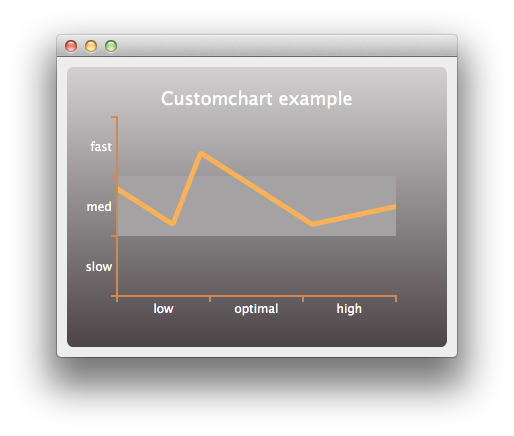
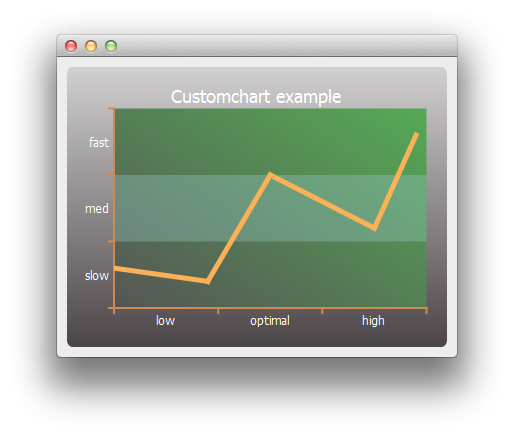
Added plot area background customization to customchart example

Changed region(s): [[0.1556, 0.2087, 0.8405, 0.7454]]

diff --git a/qtcharts/examples/customchart/main.cpp b/qtcharts/examples/customchart/main.cpp
@@ -59,6 +59,16 @@ int main(int argc, char *argv[])
     backgroundGradient.setColorAt(1.0, QRgb(0x4c4547));
     backgroundGradient.setCoordinateMode(QGradient::ObjectBoundingMode);
     chart->setBackgroundBrush(backgroundGradient);
+
+    // Customize plot area background
+    QLinearGradient plotAreaGradient;
+    plotAreaGradient.setStart(QPointF(0, 1));
+    plotAreaGradient.setFinalStop(QPointF(1, 0));
+    plotAreaGradient.setColorAt(0.0, QRgb(0x555555));
+    plotAreaGradient.setColorAt(1.0, QRgb(0x55aa55));
+    plotAreaGradient.setCoordinateMode(QGradient::ObjectBoundingMode);
+    chart->setPlotAreaBackgroundBrush(plotAreaGradient);
+    chart->setPlotAreaBackgroundVisible(true);
 //![2]
 
 //![3]
@@ -86,7 +96,7 @@ int main(int argc, char *argv[])
     axisX->setGridLineVisible(false);
     axisY->setGridLineVisible(false);
     axisY->setShadesPen(Qt::NoPen);
-    axisY->setShadesBrush(QBrush(QRgb(0xa5a2a3)));
+    axisY->setShadesBrush(QBrush(QColor(0x99, 0xcc, 0xcc, 0x55)));
     axisY->setShadesVisible(true);
 //![3]
 
